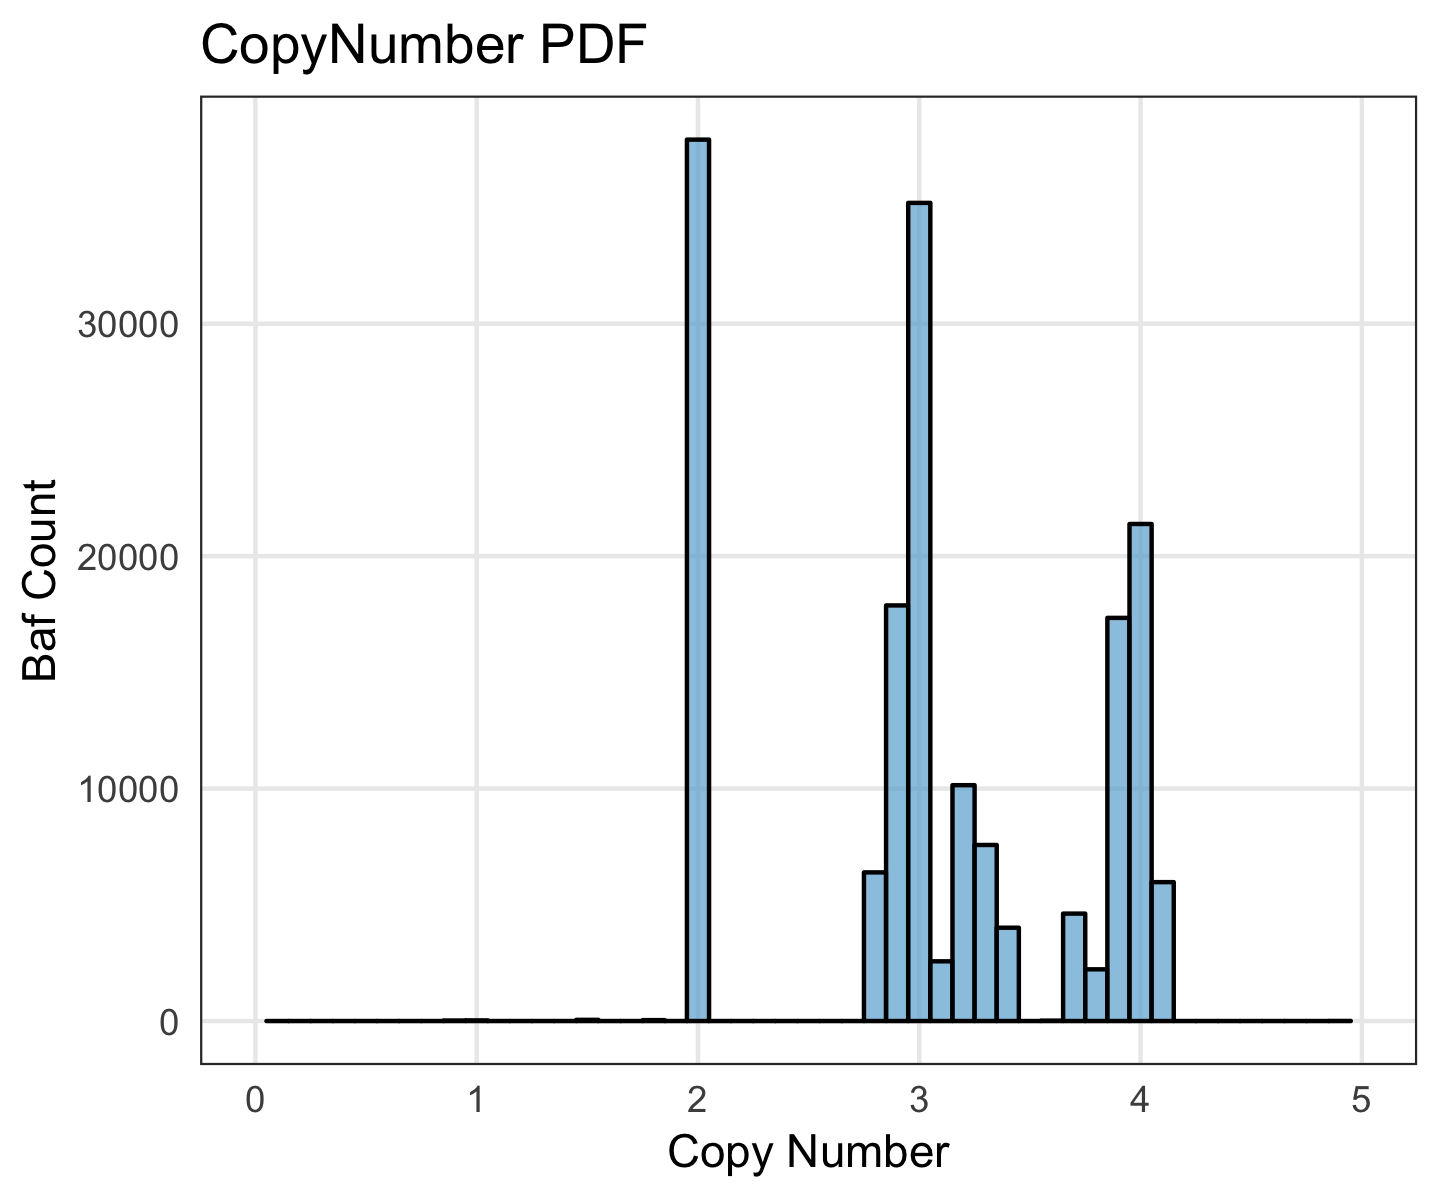
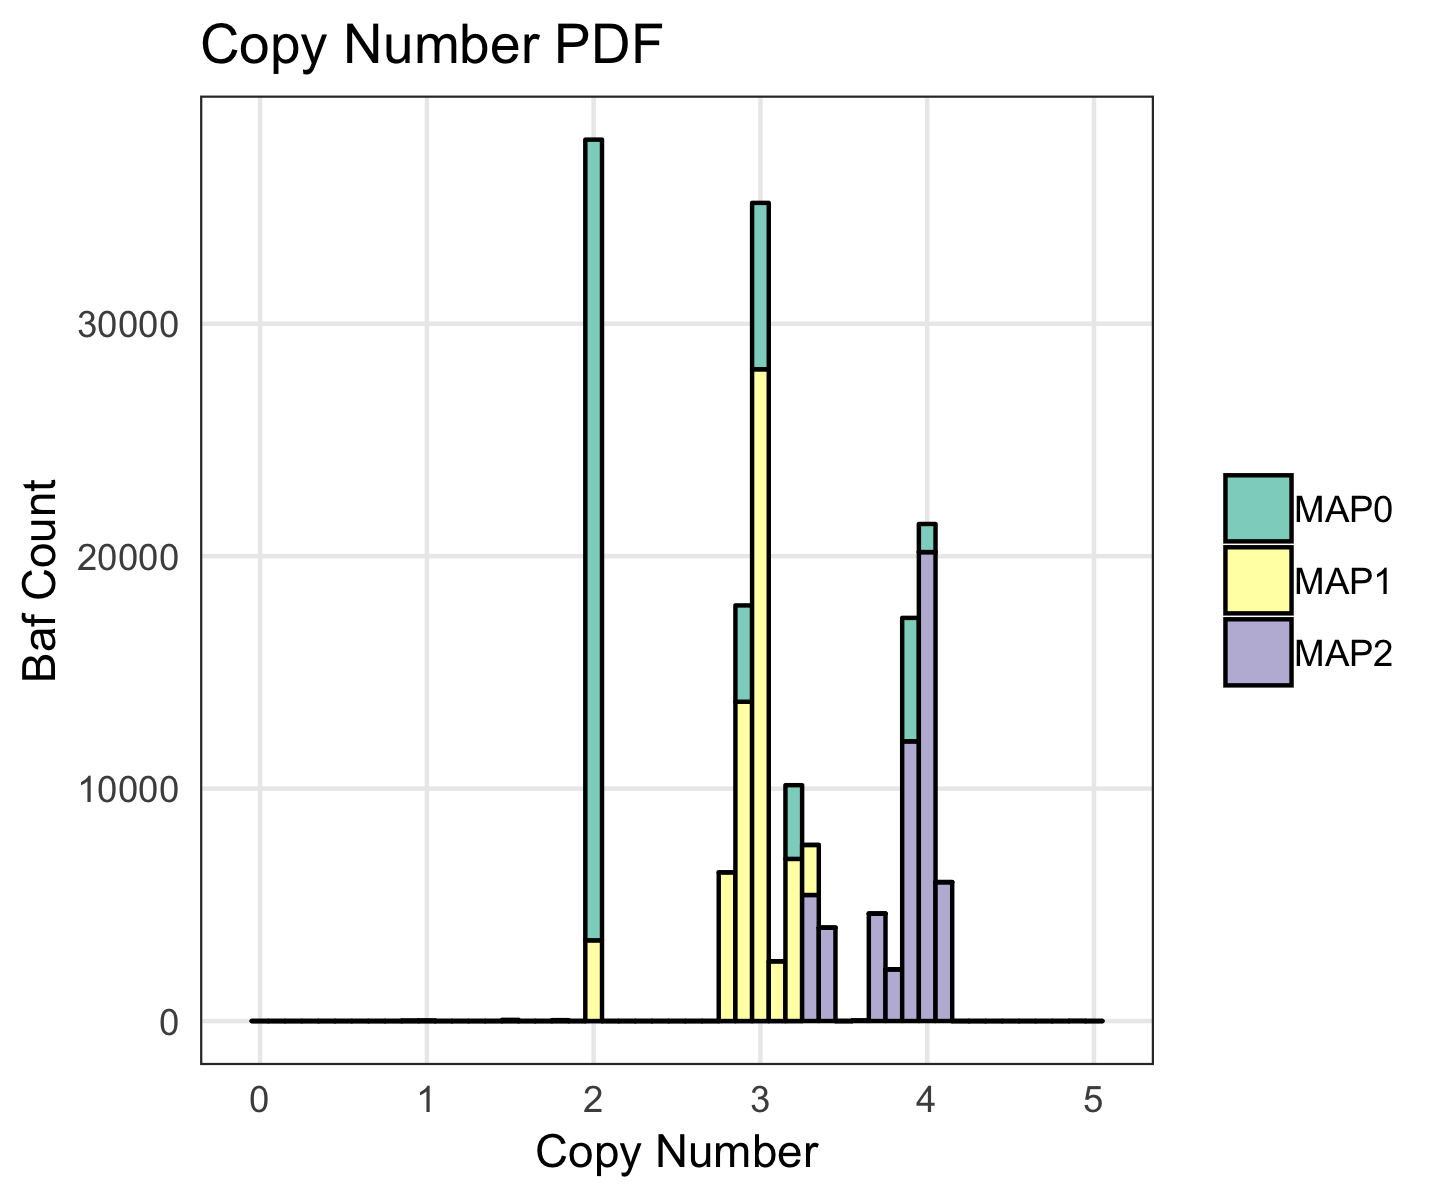
minor allele ploidy pdf plot

diff --git a/purity-ploidy-estimator/src/main/java/com/hartwig/hmftools/purple/plot/ChartWriter.java b/purity-ploidy-estimator/src/main/java/com/hartwig/hmftools/purple/plot/ChartWriter.java
@@ -80,7 +80,7 @@ public class ChartWriter {
 
     private void minorAllelePloidyPDF(@NotNull final String subtitle, @NotNull final List<PurpleCopyNumber> copyNumbers)
             throws IOException {
-        String fileName = outputDirectory + File.separator + sample + ".minor_allele.png";
+        String fileName = outputDirectory + File.separator + sample + ".map.old.png";
         JFreeChart chart = CopyNumberCharts.minorAllelePDF(copyNumbers);
         chart.addSubtitle(new TextTitle(subtitle));
         ChartUtilities.saveChartAsPNG(new File(fileName), chart, 500, 300);

diff --git a/purity-ploidy-estimator/README.md b/purity-ploidy-estimator/README.md
@@ -675,11 +675,17 @@ Each segment is divided into its major and minor allele ploidy. The area of each
   <img src="src/main/resources/readme/COLO829.fitted.segments.png" width="500" alt="Purity Range">
 </p>
 
-The following figure shows the AMBER BAF count weighted distribution of copy numbers throughout the fitted segments.
+The following figures shows the AMBER BAF count weighted distribution of copy number and minor allele ploidy throughout the fitted segments.
+Copy numbers are broken down by colour into their respective minor allele ploidy (MAP) while the minor allele ploidy figure is broken down by copy number. 
 
 <p align="center">
   <img src="src/main/resources/readme/COLO829.copynumber.png" width="500" alt="Copy Number PDF">
 </p>
+
+<p align="center">
+  <img src="src/main/resources/readme/COLO829.map.png" width="500" alt="Copy Number PDF">
+</p>
+
 
 ## Performance Characteristics
 Performance numbers were taken from a 72 core machine using COLO829 data including generation of CIRCOS diagram but excluding database writing.
@@ -700,6 +706,8 @@ Threads | Elapsed Time| CPU Time | Peak Mem
 - Upcoming
   - Added fitted segment chart
   - Added purity range chart
+  - Added copy number pdf
+  - Added minor allele ploidy pdf
   - Added `no_chart` option
   - Write purity enriched somatic VCF into output dir 
 - 2.25
